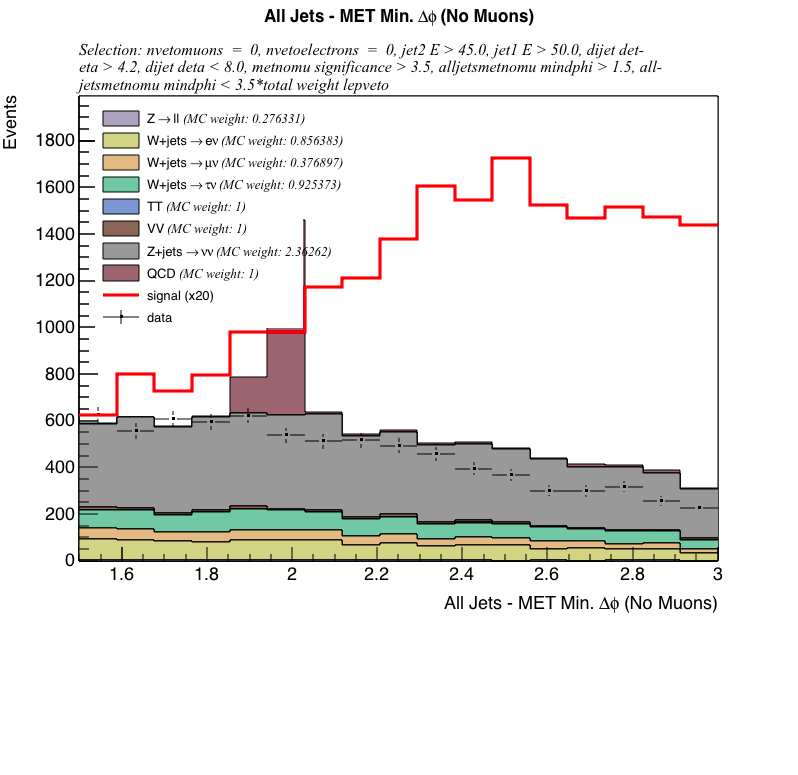
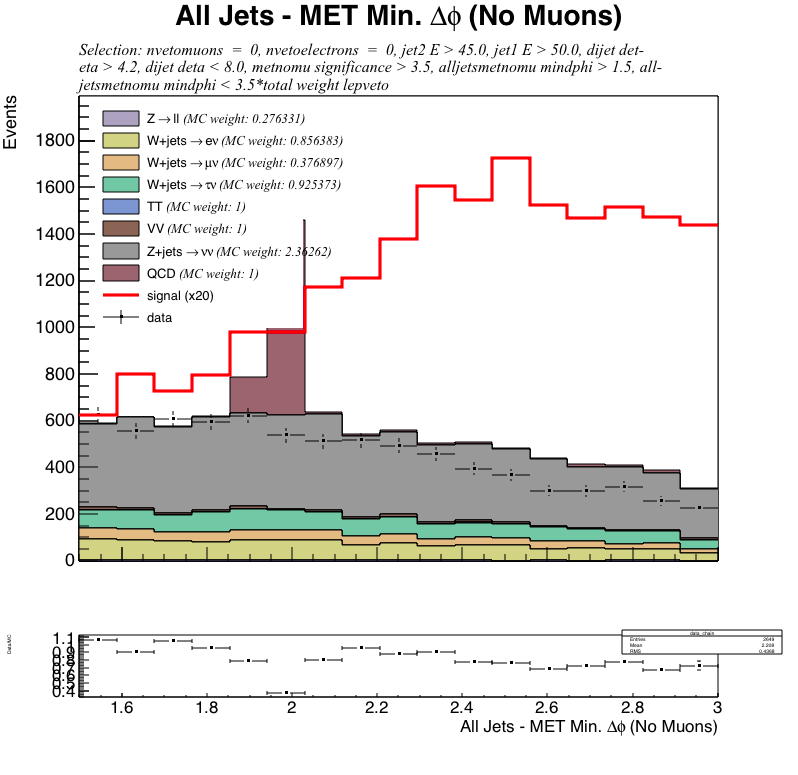
ratio graph finished but not finished styled

diff --git a/src/histo_plot.cpp b/src/histo_plot.cpp
@@ -11,6 +11,8 @@ void HistoPlot::draw_plot(Variable* var, std::vector<DataChain*> bg_chains,
   TPad* p3															= new TPad("p3", "p3", 0.0, 0.0, 1.0, 0.2);
   TLegend* legend        = new TLegend(0.0, 0.5, 0.0, 0.88);
 
+  p2->SetBottomMargin(0.1);
+  p3->SetBottomMargin(0.5);
   p1->Draw();
   p2->Draw();
   p3->Draw();
@@ -33,6 +35,11 @@ void HistoPlot::draw_plot(Variable* var, std::vector<DataChain*> bg_chains,
   stack.SetMaximum(get_histo_y_max(max_histo)*1.1);
   build_legend(legend, max_histo, var, with_cut);
 
+  p3->cd();
+  TH1F* data_bg_ratio_histo = data_to_bg_ratio_histo(plot_histos[1], plot_histos[0]);
+  data_bg_ratio_histo->Draw("e1");
+  style_ratio_histo(data_bg_ratio_histo, var->name_styled);
+
   p1->cd();
   draw_title(var->name_styled);
 
@@ -44,12 +51,12 @@ void HistoPlot::draw_plot(Variable* var, std::vector<DataChain*> bg_chains,
 
 void HistoPlot::draw_title(const char* title)
 {
-	TPaveText* pt = new TPaveText(0.1, 0.1, 0.9, 1.0, "blNDC");
-	pt->SetBorderSize(0);
-	pt->SetFillColor(0);
-	pt->AddText(title);
-	pt->SetAllWith(title, "size", 0.5);
-	pt->Draw();
+	 TPaveText* pt = new TPaveText(0.1, 0.1, 0.9, 1.0, "blNDC");
+	 pt->SetBorderSize(0);
+	 pt->SetFillColor(0);
+	 pt->AddText(title);
+	 pt->SetAllWith(title, "size", 0.8);
+	 pt->Draw();
 }
 
 std::string HistoPlot::get_selection(Variable* variable, std::vector<Variable*>* variables,
@@ -93,6 +100,8 @@ std::string HistoPlot::get_string_from_double(double num)
 
   return num_str;
 }
+
+
 
 double HistoPlot::sig_to_bg_ratio(Variable* var, TH1F* bg,
 																																		TH1F* signal_histo, bool with_cut)
@@ -243,9 +252,18 @@ void HistoPlot::style_stacked_histo(THStack* hs, const char* x_label)
   hs->GetYaxis()->SetTitle("Events");
   hs->GetYaxis()->SetLabelSize(0.035);
   hs->GetYaxis()->SetTitleOffset(1.55);
-  hs->GetXaxis()->SetTitle(x_label);
-  hs->GetXaxis()->SetLabelSize(0.035);
-  hs->GetXaxis()->SetTitleOffset(1.35);
+  hs->GetXaxis()->SetLabelSize(0);
+}
+
+void HistoPlot::style_ratio_histo(TH1F* single_histo, const char* x_label)
+{
+	 single_histo->GetYaxis()->SetTitle("Data/MC");
+	 single_histo->GetYaxis()->SetLabelSize(0.12);
+	 single_histo->GetYaxis()->SetTitleOffset(1.55);
+	 single_histo->GetXaxis()->SetLabelSize(0.12);
+	 single_histo->GetXaxis()->SetTitle(x_label);
+	 single_histo->GetXaxis()->SetTitleSize(0.12);
+	 single_histo->SetTitle("");
 }
 
 void HistoPlot::style_legend(TLegend* legend)
@@ -307,13 +325,32 @@ TH1F* HistoPlot::draw_background(DataChain* data_chain, Variable* variable,
   return build_1d_histo(data_chain, variable, with_cut, false, "goff", variables);
 }
 
+TH1F* HistoPlot::data_to_bg_ratio_histo(TH1F* data_histo, TH1F* bg_histo)
+{
+  TH1F* ratio_histo = (TH1F*) data_histo->Clone();
+  ratio_histo->Divide(bg_histo);
+
+  return set_ratio_error_bars(ratio_histo, data_histo, bg_histo);
+}
+
+TH1F* HistoPlot::set_ratio_error_bars(TH1F* ratio_histo, TH1F* data_histo, TH1F* bg_histo)
+{
+	 int nbins = ratio_histo->GetNbinsX();
+
+	 for(int i = 0; i < nbins; i++) {
+	   double error_val = std::pow(get_data_error(data_histo, i), 0.5) / get_data_error(bg_histo, i);
+	   ratio_histo->SetBinError(i, error_val);
+	 }
+
+	 return ratio_histo;
+}
 
 TH1F* HistoPlot::set_error_bars(TH1F* histo) 
 {
   int nbins = histo->GetNbinsX();
   
   for(int i = 0; i < nbins; i++) {
-    double error_val = get_data_error(histo, i);
+    double error_val = std::pow(get_data_error(histo, i), 0.5);
     histo->SetBinError(i, error_val);
   }
 
@@ -322,9 +359,7 @@ TH1F* HistoPlot::set_error_bars(TH1F* histo)
 
 float HistoPlot::get_data_error(TH1F* histo, int bin) 
 {
-  double integral = histo->Integral(bin, bin + 1);
-
-  return std::pow(integral, 0.5);
+  return histo->Integral(bin, bin + 1);
 }
 
 std::string HistoPlot::build_file_name(Variable* variable, bool with_cut) 

diff --git a/include/histo_plot.h b/include/histo_plot.h
@@ -28,6 +28,10 @@ public:
                         DataChain* signal_chain, DataChain* data, bool with_cut,
 																								std::vector<Variable*>* variables = NULL);
 
+  static TH1F* data_to_bg_ratio_histo(TH1F* data_histo, TH1F* bg_histo);
+
+  static TH1F* set_ratio_error_bars(TH1F* ratio_histo, TH1F* data_histo, TH1F* bg_histo);
+
   static void draw_title(const char* title);
 
   static double get_histo_integral(TH1F* histo, bool with_cut, Variable* var);
@@ -64,6 +68,8 @@ public:
   static double position_legend_x1(TH1F* max_histo, Variable* var, bool with_cut);
 
   static void style_stacked_histo(THStack* hs, const char* x_label);
+
+  static void style_ratio_histo(TH1F* single_histo, const char* x_label);
 
   static void style_legend(TLegend* legend);
   
